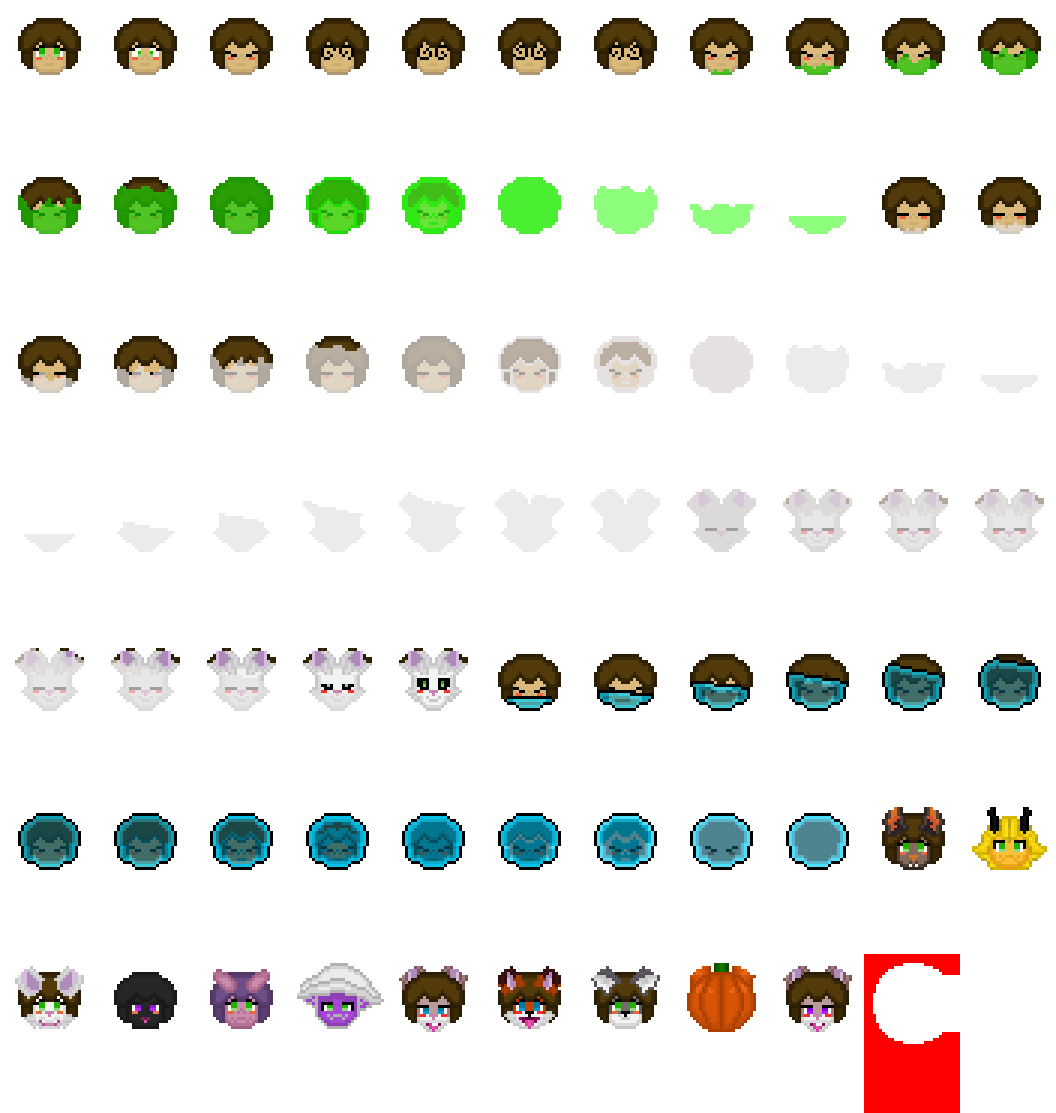
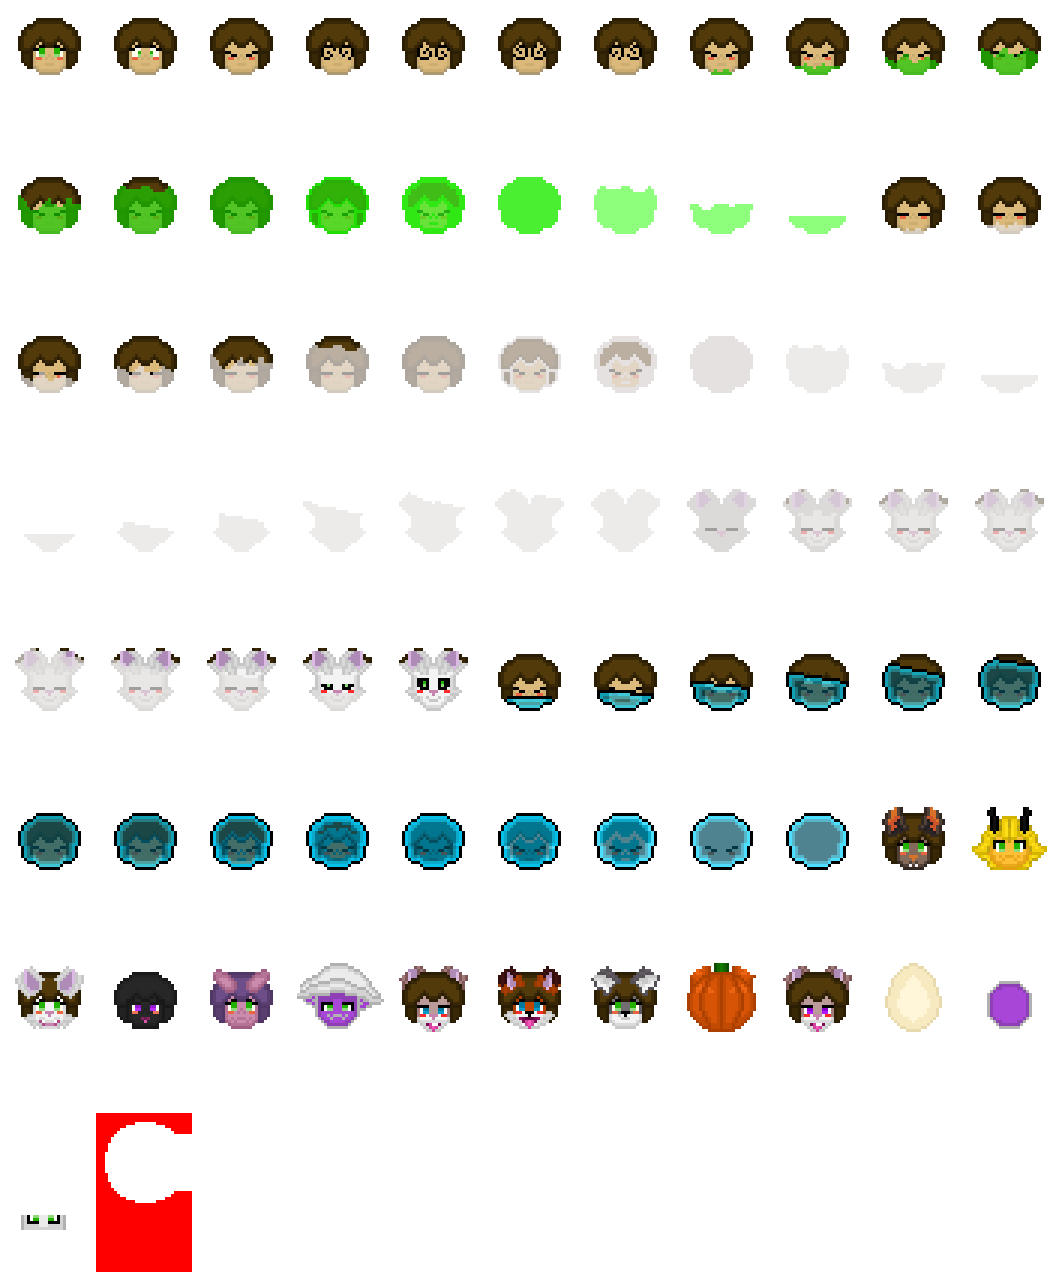
saving last of profile hp bar work

diff --git a/scripts/uiScripts/hpBarAnimations.js b/scripts/uiScripts/hpBarAnimations.js
@@ -34,6 +34,9 @@ class hpBarAnimations extends Phaser.GameObjects.Container{
         this.face.anims.create({key: '0playerPumpkinTF',frames: this.face.anims.generateFrameNames('hpBarFaceMale', { start: 73, end: 73 }),frameRate: 8,repeat: -1});              
         this.face.anims.create({key: '0playerRabbitFutaTF',frames: this.face.anims.generateFrameNames('hpBarFaceMale', { start: 74, end: 74 }),frameRate: 8,repeat: -1});              
         
+        this.face.anims.create({key: '0istaraEgg',frames: this.face.anims.generateFrameNames('hpBarFaceMale', { start: 75, end: 75 }),frameRate: 8,repeat: -1});              
+        this.face.anims.create({key: '0matangoPudge',frames: this.face.anims.generateFrameNames('hpBarFaceMale', { start: 76, end: 76 }),frameRate: 8,repeat: -1});              
+        
         //female animations.
         this.face.anims.create({key: '1playerGreen',frames: this.face.anims.generateFrameNames('hpBarFaceFemale', { start: 0, end: 0 }),frameRate: 1,repeat: -1});
         this.face.anims.create({key: '1playerYellow',frames: this.face.anims.generateFrameNames('hpBarFaceFemale', { start: 1, end: 1 }),frameRate: 1,repeat: -1});
@@ -63,6 +66,9 @@ class hpBarAnimations extends Phaser.GameObjects.Container{
         this.face.anims.create({key: '1playerVivianTF',frames: this.face.anims.generateFrameNames('hpBarFaceFemale', { start: 72, end: 72 }),frameRate: 8,repeat: -1});              
         this.face.anims.create({key: '1playerPumpkinTF',frames: this.face.anims.generateFrameNames('hpBarFaceFemale', { start: 73, end: 73 }),frameRate: 8,repeat: -1});              
         this.face.anims.create({key: '1playerRabbitFutaTF',frames: this.face.anims.generateFrameNames('hpBarFaceFemale', { start: 74, end: 74 }),frameRate: 8,repeat: -1});              
+        
+        this.face.anims.create({key: '1istaraEgg',frames: this.face.anims.generateFrameNames('hpBarFaceFemale', { start: 75, end: 75 }),frameRate: 8,repeat: -1});              
+        this.face.anims.create({key: '1matangoPudge',frames: this.face.anims.generateFrameNames('hpBarFaceFemale', { start: 76, end: 76 }),frameRate: 8,repeat: -1});              
         
        
     }

diff --git a/scripts/enemyScripts/bosses/matangoRoot.js b/scripts/enemyScripts/bosses/matangoRoot.js
@@ -479,11 +479,21 @@ class matangoRoot extends matangoRootCock {
                             //get refrence to sound key
                             let entranceStart = this.scene.getSFX('battleMyceliumSFX1');
 
+                            let currentScene = this.scene;
+
                             //add on complete for that.
                             entranceStart.on('complete', function (sound){
                                 console.log("starting main track for mushroom!!!!!!!!!!!!!!!!!!!!!!!!!!!!!!!!!!!!!!!!!!!!!!!!!!!!!!!!!!!!!!!!!!!!!!!!!!!!!!")
                                 //this.scene.initSoundEffect('nectarEntranceSFX','entranceLoop',0.3,'music');
-                                this.scene.initSoundEffect('battleMyceliumSFX2','entranceLoop',0.3,'music');
+                               
+                                console.log("currentScene: ",currentScene);
+
+                                if(currentScene !== null && currentScene !== undefined){
+                                    currentScene.initSoundEffect('battleMyceliumSFX2','entranceLoop',0.3,'music');
+                                }else{
+                                    console.log("currentScene is null or undefined so saddly we cant play the music without crashing the game :( ");
+                                }
+                                
                                         
                             },this);
                                     

diff --git a/scripts/enemyScripts/lockwood/blueSlime/blueSlime.js b/scripts/enemyScripts/lockwood/blueSlime/blueSlime.js
@@ -887,7 +887,7 @@ class blueSlime extends enemy {
             this.playerDefeatedAnimationCooldown === false &&
             this.inStartDefeatedLogic === true &&
              this.scene.KeyDisplay.visible === true &&
-              this.playerDefeatedAnimationStage !== 3 &&
+              /*this.playerDefeatedAnimationStage !== 3 &&*/
                this.playerDefeatedAnimationStage !== 6) {
 
                 this.scene.KeyDisplay.visible = false;
@@ -1410,7 +1410,11 @@ class blueSlime extends enemy {
             this.playPlapSound('plap11',500);
             this.anims.play('largeSlimeGrabDefeated4', true);
 
-            this.scene.internalView.anims.play("slimeWiggle2",true);
+            if( this.scene.internalView !== null && this.scene.internalView !== undefined){
+                console.log("this.scene.internalView",this.scene.internalView );
+                this.scene.internalView.anims.play("slimeWiggle2",true);
+            }
+            
 
             if (this.onomatPlayed === false) {
                 

diff --git a/scripts/sceneScripts/sceneHeads/titleScreen.js b/scripts/sceneScripts/sceneHeads/titleScreen.js
@@ -261,7 +261,7 @@ class titleScreen extends defaultScene {
                 "Scarlet, Dainsleft Rovera, Zebby, Drachen, ",
                 "Rat Profile Picture, Lit_kale_chip, Gamersgate123,",
                 "Aaron, Dolly-decimal, luna, Cirme, Darkgamer22263,",
-                "patrickster",
+                "patrickster, Djmc216",
                 "(Inspiration)=====================================",
                 "Scarlet, Otpfurry1, Kaynstarr, Fluffstuff, Manny,",
                 "Bigbigbig, Turtwag, Adorabletyphlosion, Nox, ",

diff --git a/scripts/enemyScripts/bosses/matangoRootAbsorb.js b/scripts/enemyScripts/bosses/matangoRootAbsorb.js
@@ -322,7 +322,7 @@ class matangoRootAbsorb extends enemy {
 
                 this.animationPlayed = true;
                 this.scene.initSoundEffect('growSFX','2',0.1);
-                healthEmitter.emit(healthEvent.setSpecialBarFace,'genericDigest',"doesntmatter","matango pudge");
+                healthEmitter.emit(healthEvent.setSpecialBarFace,'genericTF',"matangoPudge","matango pudge");
                 this.anims.play('absorbGameover6').once('animationcomplete', () => {
 
                     this.animationPlayed = false;

diff --git a/scripts/levelScripts/lockwoodVillageLevels/LockwoodBridges.js b/scripts/levelScripts/lockwoodVillageLevels/LockwoodBridges.js
@@ -233,7 +233,7 @@ class LockwoodBridges extends defaultScene {
         this.player2Active = true;
         this.Milo.visible = false;
         this.player2.visible = true;
-        this.player2.MiloSprite.anims.play('MenacingSpearHold',true);
+        //this.player2.MiloSprite.anims.play('MenacingSpearHold',true);
         this.player2.mainHitbox.x = 1895;
         this.player2.mainHitbox.y = 728;
         this.player2.x = this.player2.mainHitbox.x;

diff --git a/scripts/levelScripts/dreams/dreamLockwoodBridges.js b/scripts/levelScripts/dreams/dreamLockwoodBridges.js
@@ -227,7 +227,8 @@ class dreamLockwoodBridges extends defaultScene {
         this.player2Active = true;
         this.Milo.visible = false;
         this.player2.visible = true;
-        this.player2.anims.play('MenacingSpearHold',true);
+        console.log("this.player2: ",this.player2);
+        //this.player2.anims.play('MenacingSpearHold',true);
         this.player2.x = 1895;
         this.player2.y = 728;
         this.dialogueCatch = false;

diff --git a/scripts/npcScripts/istara.js b/scripts/npcScripts/istara.js
@@ -541,6 +541,8 @@ class istara extends npc{
             //progress the dialogue by one stage so the button moves dialogue forward.
             this.scene.initSoundEffect('stomachSFX','13',0.1);
 
+            healthEmitter.emit(healthEvent.setSpecialBarFace,'genericTF',"istaraEgg","cobrabold Egg");
+
             if(this.scene.lightingSystemActive === true){
               this.curseLight.visible = false;
             }

diff --git a/scripts/levelScripts/lockwoodVillageLevels/LockwoodEntrance.js b/scripts/levelScripts/lockwoodVillageLevels/LockwoodEntrance.js
@@ -128,7 +128,7 @@ class LockwoodEntrance extends defaultScene {
       
       this.initPortals(1306,1112-7,1642,503,"warpCaveOutside","ShadowCaveUpper");
       
-      this.initPortals(785,1083-15,3566,728,"door2","LockwoodBridges",false);
+      //this.initPortals(785,1083-15,3566,728,"door2","LockwoodBridges",false);
 
       this.initPortals(1506,1112-8,968,600,"door2","DevRoom2");
 

diff --git a/scripts/sceneScripts/sceneHeads/gameHud.js b/scripts/sceneScripts/sceneHeads/gameHud.js
@@ -34,7 +34,7 @@ class gameHud extends A3SoundEffects {
       this.isStorageOpen = false;
       this.displayCurrencyIcon = null;
 
-      this.debugToggle = true;
+      this.debugToggle = false;
 
       this.travelMap = null;
 
